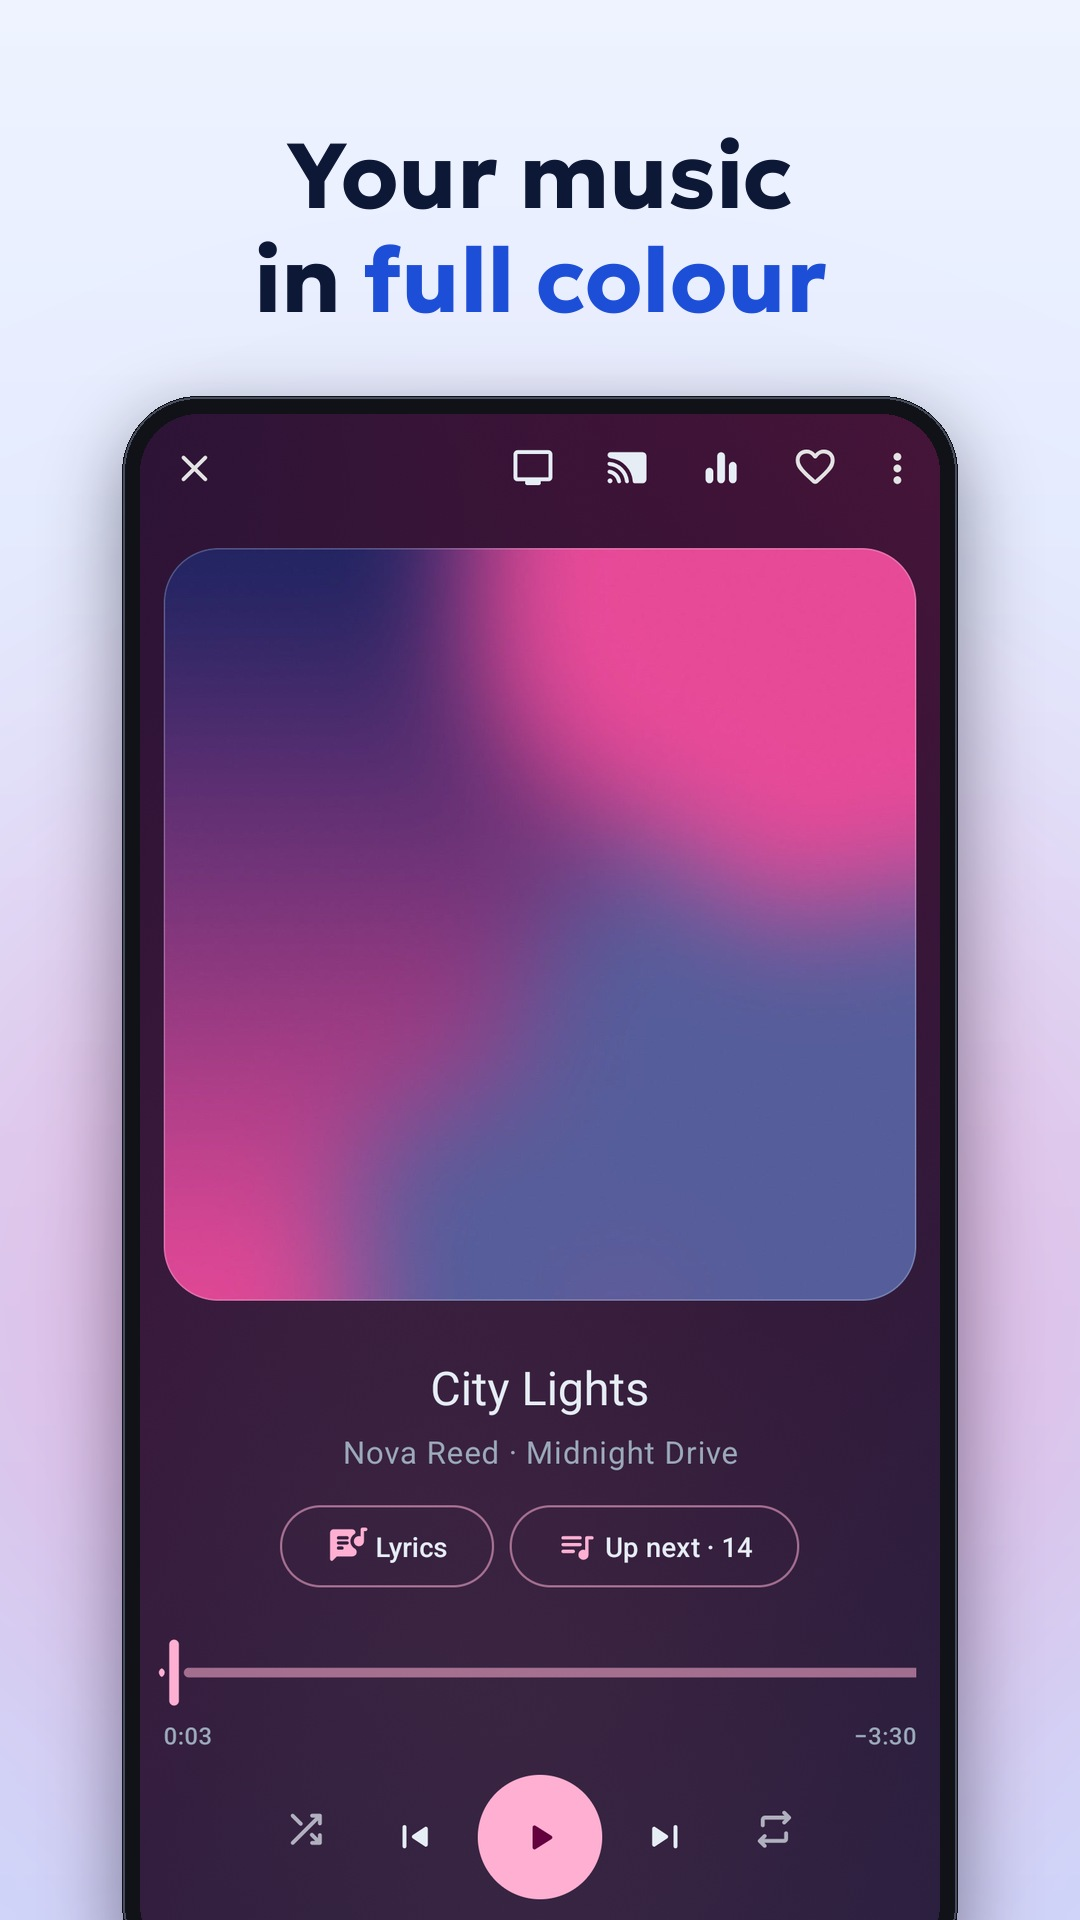
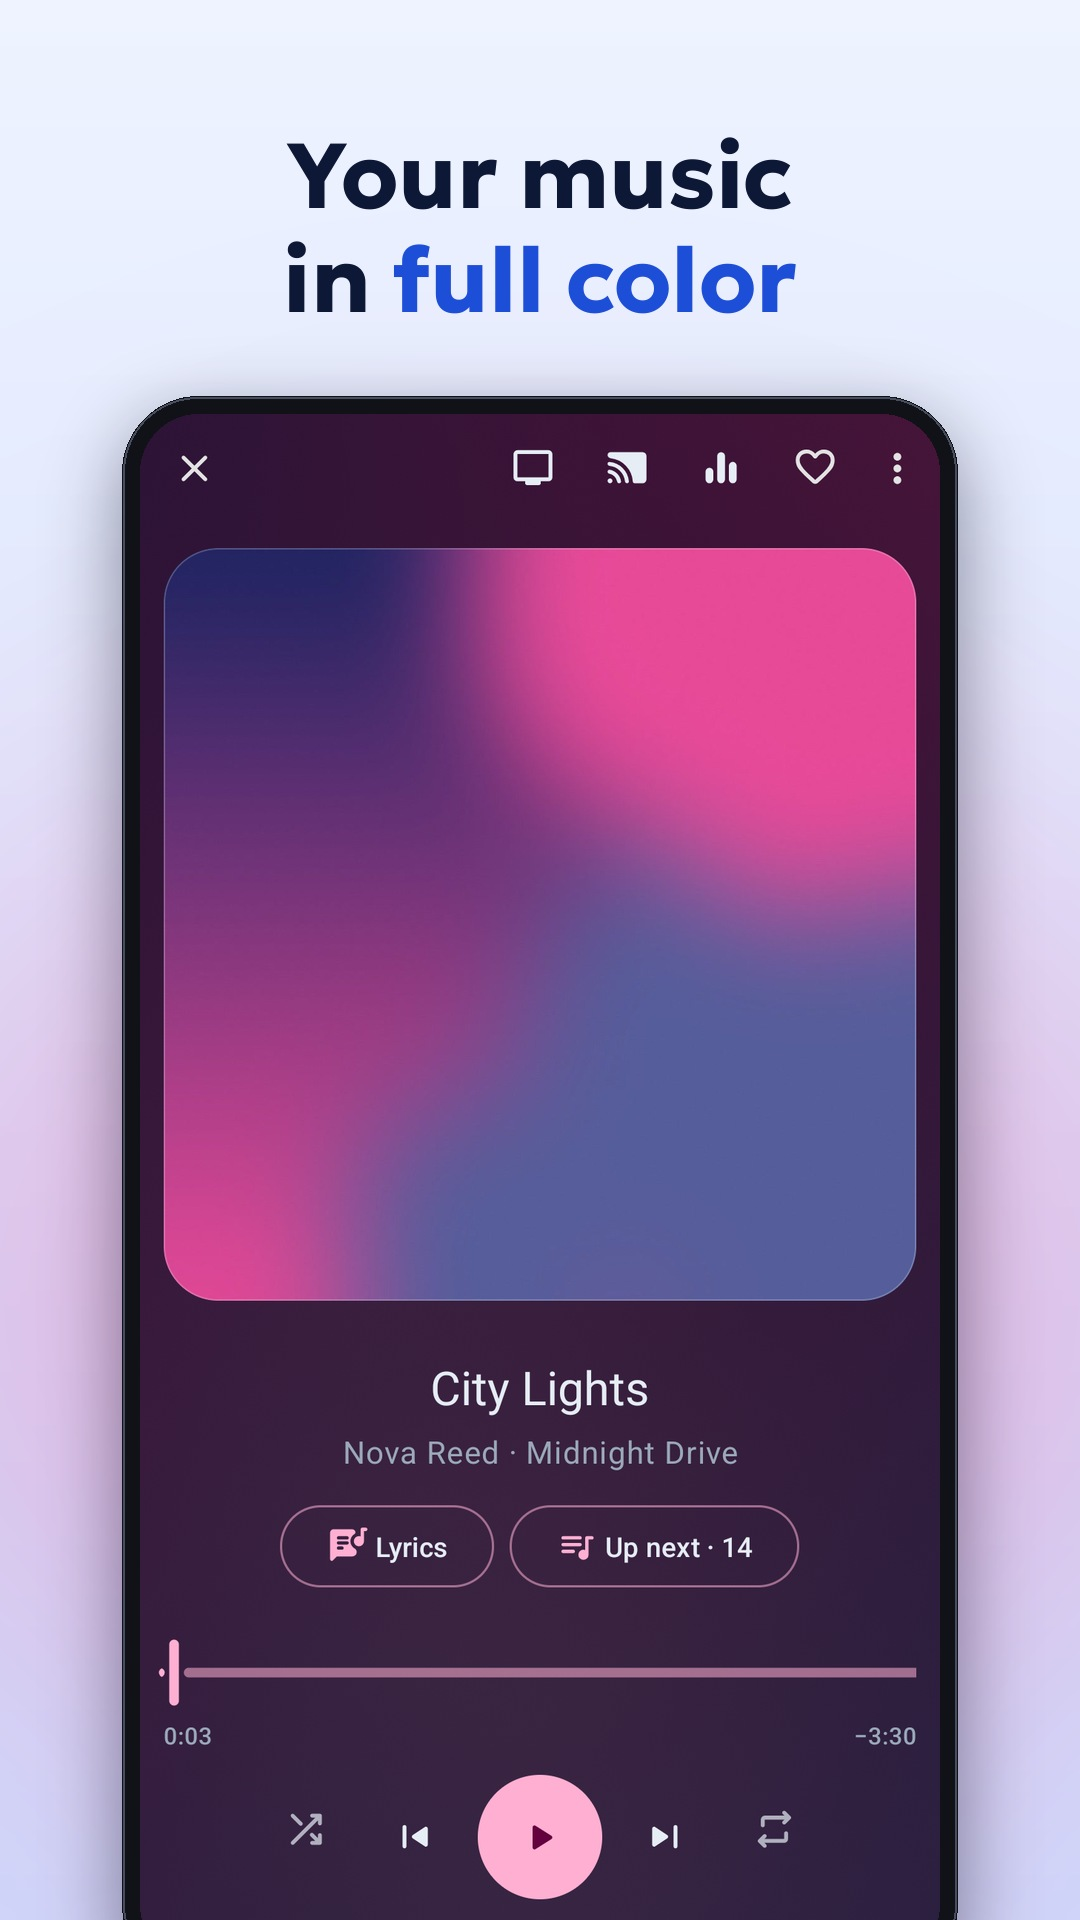
Store images: review round – US spelling, files earlier, plain AI line
From the visual review (codex, Copilot, Cursor, Gemini): en-US says "color";
the AI headline no longer suggests voice input ("Tell Ordo what you need");
the file manager comes right after music and video instead of at the end.

Claude-Session: https://claude.ai/code/session_01MwZiGHMetnikLtK5FfgZy9

Changed region(s): [[0.2139, 0.125, 0.7639, 0.1875]]

diff --git a/utils/store-images/compose.py b/utils/store-images/compose.py
@@ -27,11 +27,11 @@ TINT = {"music": (236, 110, 180), "lyrics": (236, 110, 180), "library": (150, 12
 HEAD = {
     "en": {
         "suite": "Files, music and video. *One app.*",
-        "music": "Your music in *full colour*",
+        "music": "Your music in *full color*",
         "video": "Films with *subtitles that fit*",
         "sound": "Shape *your sound*",
         "picture": "*HDR films* on any screen",
-        "ai": "Just say *what you need*",
+        "ai": "Tell Ordo *what you need*",
         "storage": "See what fills *your storage*",
         "lyrics": "Sing along with *synced lyrics*",
         "library": "All your music, *beautifully sorted*",
@@ -44,7 +44,7 @@ HEAD = {
         "video": "Filme mit *passenden Untertiteln*",
         "sound": "Forme *deinen Klang*",
         "picture": "*HDR-Filme* auf jedem Bildschirm",
-        "ai": "Sag einfach, *was du brauchst*",
+        "ai": "Sag Ordo, *was du brauchst*",
         "storage": "Sieh, was deinen *Speicher füllt*",
         "lyrics": "Sing mit – *Songtexte im Takt*",
         "library": "Deine Musik, *schön sortiert*",
@@ -53,7 +53,8 @@ HEAD = {
     },
 }
 LOCALE = {"en": "en-US", "de": "de-DE"}
-PHONE = ["suite", "music", "video", "sound", "lyrics", "ai", "storage", "library"]
+# Story: the suite, then each part (music, video, files), then the depth of each.
+PHONE = ["suite", "music", "video", "ai", "storage", "sound", "library", "lyrics"]
 # Tablets: no storage (a tablet shows its owner's folders), no lyrics or signal path (too small to read there).
 TABLET = ["library", "music", "video", "more", "sound"]
 SEVEN = ["library", "music", "video", "sound", "lyrics"]

diff --git a/README.md b/README.md
@@ -180,13 +180,13 @@ The pictures of the Play listing, from `fastlane/metadata/android/en-US/images/`
   <img src="fastlane/metadata/android/en-US/images/phoneScreenshots/01_suite.jpg" width="24%" alt="Phone: suite">
   <img src="fastlane/metadata/android/en-US/images/phoneScreenshots/02_music.jpg" width="24%" alt="Phone: music">
   <img src="fastlane/metadata/android/en-US/images/phoneScreenshots/03_video.jpg" width="24%" alt="Phone: video">
-  <img src="fastlane/metadata/android/en-US/images/phoneScreenshots/04_sound.jpg" width="24%" alt="Phone: sound">
+  <img src="fastlane/metadata/android/en-US/images/phoneScreenshots/04_ai.jpg" width="24%" alt="Phone: ai">
 </p>
 <p align="center">
-  <img src="fastlane/metadata/android/en-US/images/phoneScreenshots/05_lyrics.jpg" width="24%" alt="Phone: lyrics">
-  <img src="fastlane/metadata/android/en-US/images/phoneScreenshots/06_ai.jpg" width="24%" alt="Phone: ai">
-  <img src="fastlane/metadata/android/en-US/images/phoneScreenshots/07_storage.jpg" width="24%" alt="Phone: storage">
-  <img src="fastlane/metadata/android/en-US/images/phoneScreenshots/08_library.jpg" width="24%" alt="Phone: library">
+  <img src="fastlane/metadata/android/en-US/images/phoneScreenshots/05_storage.jpg" width="24%" alt="Phone: storage">
+  <img src="fastlane/metadata/android/en-US/images/phoneScreenshots/06_sound.jpg" width="24%" alt="Phone: sound">
+  <img src="fastlane/metadata/android/en-US/images/phoneScreenshots/07_library.jpg" width="24%" alt="Phone: library">
+  <img src="fastlane/metadata/android/en-US/images/phoneScreenshots/08_lyrics.jpg" width="24%" alt="Phone: lyrics">
 </p>
 <p align="center"><sub>7-inch tablet</sub></p>
 <p align="center">

diff --git a/README.de.md b/README.de.md
@@ -180,13 +180,13 @@ Die Bilder des Play-Eintrags, aus `fastlane/metadata/android/de-DE/images/`.
   <img src="fastlane/metadata/android/de-DE/images/phoneScreenshots/01_suite.jpg" width="24%" alt="Handy: suite">
   <img src="fastlane/metadata/android/de-DE/images/phoneScreenshots/02_music.jpg" width="24%" alt="Handy: music">
   <img src="fastlane/metadata/android/de-DE/images/phoneScreenshots/03_video.jpg" width="24%" alt="Handy: video">
-  <img src="fastlane/metadata/android/de-DE/images/phoneScreenshots/04_sound.jpg" width="24%" alt="Handy: sound">
+  <img src="fastlane/metadata/android/de-DE/images/phoneScreenshots/04_ai.jpg" width="24%" alt="Handy: ai">
 </p>
 <p align="center">
-  <img src="fastlane/metadata/android/de-DE/images/phoneScreenshots/05_lyrics.jpg" width="24%" alt="Handy: lyrics">
-  <img src="fastlane/metadata/android/de-DE/images/phoneScreenshots/06_ai.jpg" width="24%" alt="Handy: ai">
-  <img src="fastlane/metadata/android/de-DE/images/phoneScreenshots/07_storage.jpg" width="24%" alt="Handy: storage">
-  <img src="fastlane/metadata/android/de-DE/images/phoneScreenshots/08_library.jpg" width="24%" alt="Handy: library">
+  <img src="fastlane/metadata/android/de-DE/images/phoneScreenshots/05_storage.jpg" width="24%" alt="Handy: storage">
+  <img src="fastlane/metadata/android/de-DE/images/phoneScreenshots/06_sound.jpg" width="24%" alt="Handy: sound">
+  <img src="fastlane/metadata/android/de-DE/images/phoneScreenshots/07_library.jpg" width="24%" alt="Handy: library">
+  <img src="fastlane/metadata/android/de-DE/images/phoneScreenshots/08_lyrics.jpg" width="24%" alt="Handy: lyrics">
 </p>
 <p align="center"><sub>7-Zoll-Tablet</sub></p>
 <p align="center">
